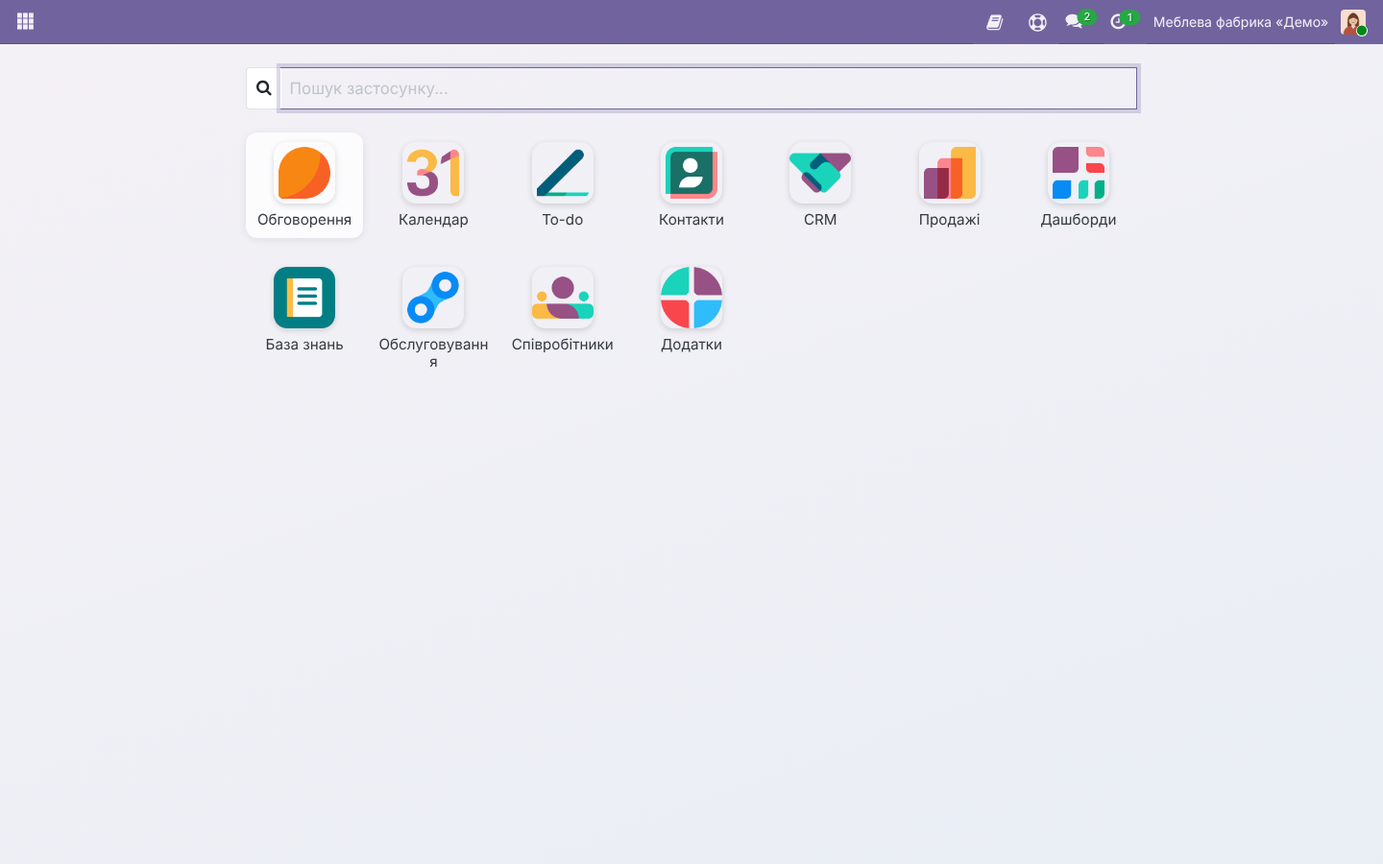
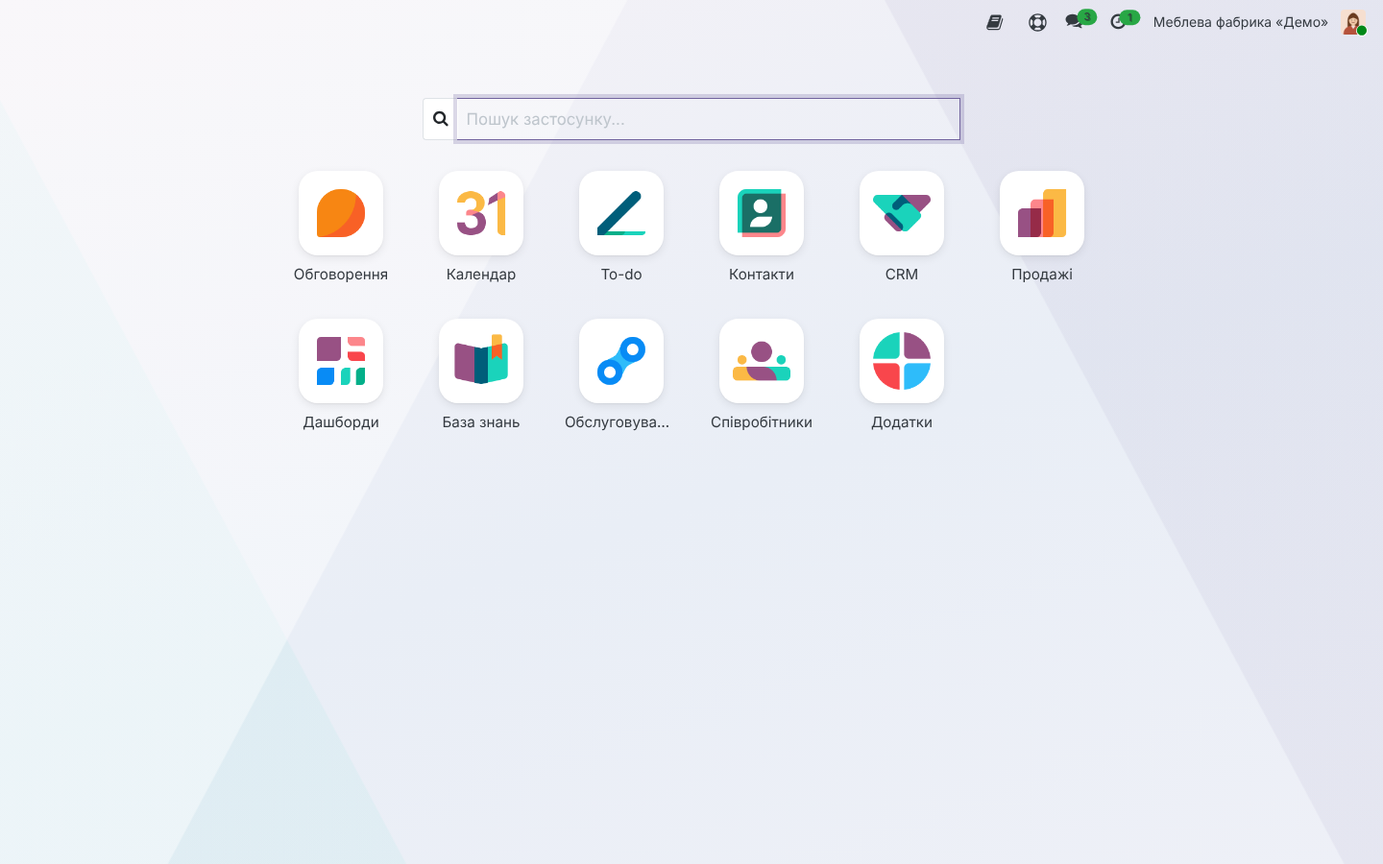
A-16b-3: перезнято кадри головного екрана (SC-01-1, SC-06-1) на стенді dd1c949, SHA в INDEX і SHOOT-LOG
Claude-Session: https://claude.ai/code/session_01L4X5dzMK8q8wsLqUxAXMtS

diff --git a/package/docs/user-guide/INDEX.md b/package/docs/user-guide/INDEX.md
@@ -1,10 +1,10 @@
 # Інструкції користувача: меблеве виробництво, пакет 0.4
-SHA стенда: 15dbd6f7504fe49f174af6874f6ed99865365ea8
+SHA стенда: dd1c9490f637c8c33fdbf983d22ab749d2763af9
 Джерело сценаріїв: package/SPEC.md
 Дозволені латинські назви: BAS, BAF, PIN, CAD, DXF, ToDo, QR, CUT, TDS, ПДВ, Odoo, Excel, CSV
-Дата зйомки: 2026-11-15 (A-16b-2: усі 69 кадрів перезнято на стенді A-15-full-2 `15dbd6f`, сервер з каталогом доставки `delivery-fix3`). Адреса стенда: локальний (`http://127.0.0.1:8079`, база `demo-mebli-pkg-a`, Odoo 19.0 CE, мова `uk_UA`, профіль B-демо). Засіб зйомки: Playwright, headless Chromium, 1440×900, часовий пояс `Europe/Kyiv`; журнал — `img/SHOOT-LOG.md`.
-Свіжість: SHA гейтів `package/CHECKS.md` = `ba0aff3` (A-14-6); `git diff --quiet ba0aff3..HEAD -- package/addons package/config package/master-data …` = 0 (код пакета = коду гейтів).
-Модулі на стенді (21 `td_*`, без `td_mebli_demo`): `td_home_menu` 19.0.1.0.0, `td_knowledge` 19.0.1.1.1, `td_mebli_attendance` 19.0.1.1.1, `td_mebli_bas` 19.0.1.1.3, `td_mebli_base` 19.0.1.1.3, `td_mebli_claim` 19.0.1.1.4, `td_mebli_cost` 19.0.1.1.2, `td_mebli_cutting` 19.0.1.1.3, `td_mebli_dashboard` 19.0.1.1.2, `td_mebli_install` 19.0.1.1.6, `td_mebli_knowledge` 19.0.1.1.1, `td_mebli_maint` 19.0.1.1.2, `td_mebli_measure` 19.0.1.1.3, `td_mebli_migration` 19.0.1.1.6, `td_mebli_mrp` 19.0.1.1.5, `td_mebli_notify` 19.0.1.1.3, `td_mebli_purchase` 19.0.1.1.3, `td_mebli_sale` 19.0.1.1.3, `td_mebli_shop` 19.0.1.1.3, `td_mebli_ua` 19.0.1.1.3, `td_support` 19.0.1.0.1. Не встановлено: мости EE (`td_mebli_shopfloor`, `_quality`, `_fsm`, `_planning`, `_helpdesk`, `_sign`) — EE не перевірено; `td_mebli_multico` — профіль VP-03 = `single`.
+Дата зйомки: 2026-11-16 (A-16b-3: перезнято кадри головного екрана `menedzher/SC-01-1.png`, `kerivnyk/SC-06-1.png` на стенді A-15-full-3 `dd1c949`, сервер з каталогом доставки `delivery-fix4`; решта 67 кадрів — A-16b-2 на стенді `15dbd6f`: diff коду `15dbd6f..dd1c949` змінює в інтерфейсі лише головний екран і іконки кореневих меню, яких на цих кадрах немає — навбар застосунків, форми й списки ті самі, AI-32). Адреса стенда: локальний (`http://127.0.0.1:8079`, база `demo-mebli-pkg-a`, Odoo 19.0 CE, мова `uk_UA`, профіль B-демо). Засіб зйомки: Playwright, headless Chromium, 1440×900, часовий пояс `Europe/Kyiv`; журнал — `img/SHOOT-LOG.md`.
+Свіжість: SHA гейтів `package/CHECKS.md` = `1778db7` (A-14-7); `git diff --quiet 1778db7..HEAD -- package/addons package/config package/master-data …` = 0 (код пакета = коду гейтів).
+Модулі на стенді (21 `td_*`, без `td_mebli_demo`): `td_home_menu` 19.0.1.0.1, `td_knowledge` 19.0.1.1.2, `td_mebli_attendance` 19.0.1.1.1, `td_mebli_bas` 19.0.1.1.3, `td_mebli_base` 19.0.1.1.3, `td_mebli_claim` 19.0.1.1.4, `td_mebli_cost` 19.0.1.1.2, `td_mebli_cutting` 19.0.1.1.3, `td_mebli_dashboard` 19.0.1.1.3, `td_mebli_install` 19.0.1.1.6, `td_mebli_knowledge` 19.0.1.1.1, `td_mebli_maint` 19.0.1.1.2, `td_mebli_measure` 19.0.1.1.4, `td_mebli_migration` 19.0.1.1.6, `td_mebli_mrp` 19.0.1.1.5, `td_mebli_notify` 19.0.1.1.4, `td_mebli_purchase` 19.0.1.1.3, `td_mebli_sale` 19.0.1.1.3, `td_mebli_shop` 19.0.1.1.3, `td_mebli_ua` 19.0.1.1.3, `td_support` 19.0.1.0.1. Не встановлено: мости EE (`td_mebli_shopfloor`, `_quality`, `_fsm`, `_planning`, `_helpdesk`, `_sign`) — EE не перевірено; `td_mebli_multico` — профіль VP-03 = `single`.
 
 ## Ролі
 | Роль | Посібник | Картка |
@@ -591,7 +591,7 @@ SHA стенда: 15dbd6f7504fe49f174af6874f6ed99865365ea8
 | Обмеження звернень (5 на годину, 5 вкладень, 10 МБ) | параметр спільного модуля `td_support.rate_limit_per_hour, max_attachments` | td_support | admin.md § Звернення в підтримку (td_support) | описано |
 | Значок «Підтримка ToDo» і кнопка «Надіслати в підтримку ToDo» на діалозі помилки | елемент навбару `td_support.Systray, ErrorDialog` | td_support | menedzher.md § Довідка й підтримка; admin.md § Звернення в підтримку (td_support) | описано |
 | Значок «Довідка» (статті до екрана) і кнопка «Додати статтю до цього екрана» (редактор) | елемент навбару `td_knowledge.Systray` | td_knowledge | admin.md § База знань (td_knowledge) | описано |
-| Головний екран застосунків (плитки, пошук, гаряча клавіша `h`) | клієнтська дія `td_home_menu (клієнтська дія)` | td_home_menu | menedzher.md § SC-01; kerivnyk.md § SC-06 | описано |
+| Головний екран застосунків (плитки на білих картках, пошук, гаряча клавіша `h`; навбар — лише значки праворуч; підпис в один рядок з «…») | клієнтська дія `td_home_menu (клієнтська дія)` | td_home_menu | menedzher.md § SC-01; kerivnyk.md § SC-06 | описано |
 | Правила доступу записів (2) | правила запису `ir.rule td_knowledge` | td_knowledge | admin.md § Користувачі й ролі | описано |
 | Правила доступу записів (3) | правила запису `ir.rule td_mebli_bas` | td_mebli_bas | admin.md § Користувачі й ролі | описано |
 | Правила доступу записів (4) | правила запису `ir.rule td_mebli_cutting` | td_mebli_cutting | admin.md § Користувачі й ролі | описано |

diff --git a/docs/industries/mebli/research/AI-DECISIONS.md b/docs/industries/mebli/research/AI-DECISIONS.md
@@ -68,3 +68,4 @@
 | AI-29 | Іконки застосунків `td_*` (td_knowledge, td_mebli_dashboard, td_mebli_measure) | Власні малюнки в стилі стандартних `icon.svg` Odoo 19: без фону-плашки, 3–5 пласких фігур, що перекриваються (колір перекриття — окремою фігурою), палітра #985184, #005E7A, #1AD3BB, #FBB945, #F86126, #FC868B; база знань — розгорнута книга із закладкою, дашборд керівника — три стовпчики, що заходять один на один, заміри — рулетка зі стрічкою; `icon.svg` 50×50 + `icon.png` 100×100 (як стандарт), `web_icon` = `<власний модуль>,static/description/icon.png`; «Заміри» більше не беруть іконку `crm` | лишити плашки; брати іконки стандартних застосунків | малюнок — рішення AI без дизайнера; на темній темі фігури без плашки читаються так само, як стандартні | знімки after-* (home-menu-review); тест `test_app_icons` | A-11 fix4 | ризик, вето власника |
 | AI-30 | Підписи плиток головного екрана рвались посеред слова («Обслуговуванн / я») | За рішенням власника (вигляд як у EE): підпис — один рядок `white-space: nowrap; overflow: hidden; text-overflow: ellipsis`, повна назва — у `title` плитки; на телефоні 390 px «Обслуговування» вміщається повністю; на десктопі (колонка ≈ 118 px при 6 колонках і ширших проміжках) 14+ літер — з «…» («Обслуговува…», «Виставлення …»), повна назва — у підказці; уточнено в A-15-full-3 за знімками after-* | перенос лише між словами + `hyphens: auto` і менший шрифт для довгих слів (перша редакція fix4, замінена рішенням власника) | довга назва видна повністю лише в підказці (`title`) і в пошуку | знімки after-*, тур `td_home_menu_tour`, T-14 (A-16-6) | A-11 fix4 | ризик, вето власника |
 | AI-31 | Головний екран CE «як Enterprise» без коду й ресурсів EE | Лише власні CSS/JS/XML `td_home_menu`: клас `body.td_home_menu_mode` на час екрана — навбар прозорий, меню застосунку, бренд і кнопка плиток сховані (CSS), systray лишається; фон — власний градієнт із діагональними площинами (CSS-градієнти, без файлів); білі плитки 88 px (телефон 76) з тінню; сітка 6/4/3 колонки (≥ 992 / ≥ 768 / менше); одна виділена плитка — `state.focused` з `mouseenter`/стрілок (без `:hover`), до наведення виділення немає; пошук — завжди вгорі (рішення власника; варіант «з'являється при наборі» скасовано) | копіювати стилі `web_enterprise` (ліцензія OEEL — заборонено) | інші модулі, що стилізують навбар, можуть перекрити CSS-змінні навбару в режимі головного екрана; на темній темі не перевірено | тур (HM-07…HM-11), знімки after-* 1440/390 | A-11 fix4 | ризик, вето власника |
+| AI-32 | A-16b-3: які кадри інструкцій перезнімати після A-11-fix4 | Лише кадри, де видно головний екран (`menedzher/SC-01-1.png`, `kerivnyk/SC-06-1.png`; grep посібників і перегляд кадрів «головний екран»/«плитки»; іконок кореневих меню на інших кадрах немає — навбар CE застосунку іконку не показує); у SHOOT-LOG новий SHA `dd1c949` — лише в цих 2 рядках, решта 67 — `15dbd6f` (A-16b-2) з поясненням у INDEX; INDEX «SHA стенда» = `dd1c949` | перезняти всі 69 кадрів | кадр, на якому випадково видно змінений елемент, лишиться старим (перевірено: зміни лише в режимі головного екрана) | UG-fresh (MANUAL), A-17 власник за інструкціями | A-16b-3 | ризик, вето власника |

diff --git a/tests/reports/A-16b-3.md b/tests/reports/A-16b-3.md
@@ -1,0 +1,31 @@
+# Звіт кроку A-16b (інструкції користувача), спроба 3 (refresh) — тестовий режим, замість message_post
+
+Наряд: `tests/naryad/A-16b-3.yaml`. Гілка `flow/A-16b-3-test` від `flow/A-16-6-test` @ `fcca4cc`. Стенд: `demo-mebli-pkg-a` A-15-full-3, SHA_STAND `dd1c949`, гейти A-14-7 `1778db7`; сервер — з каталогом доставки `delivery-fix4` (команда — `tests/reports/A-15-full-3.md`).
+
+```yaml
+run: {step: A-16b, scope: package/mebli, attempt: 3, started: 2026-11-16T00:30:00Z, finished: 2026-11-16T00:45:00Z}
+result: done
+pr: "не створювався (наказ сесії); гілка flow/A-16b-3-test запушена"
+skill_versions: {"flow-package-build:user-guide-builder": "0.4.0"}
+model: {primary: claude-opus-5-5, review: null}
+usage: {tokens_in: 30000, tokens_out: 5000, agent_hours: 0.25}   # оцінка
+cost_estimated: true
+review_rounds: 0
+git: {base: fcca4cc, branch: flow/A-16b-3-test}
+checks:
+  - {id: step0-fresh, status: PASS, msg: "git diff --quiet 1778db7..HEAD -- package/addons package/config package/master-data = 0; SHA_STAND dd1c949 (README)"}
+  - {id: reshoot, status: PASS, msg: "кадри з головним екраном (grep «головний екран»/«плитки» у посібниках + перегляд кадрів): menedzher/SC-01-1.png (salon), kerivnyk/SC-06-1.png (owner) — перезнято 1440×900, Playwright, Europe/Kyiv; інших кадрів з головним екраном чи іконками кореневих меню немає (AI-32)"}
+  - {id: UG-all, status: PASS, msg: "check_guides.py --stand-sha dd1c949…: PASS 11, FAIL 0, MANUAL 3 (UG-fresh, UG-ui, UG-pii — нижче)"}
+  - {id: UG-fresh, status: PASS, msg: "SHOOT-LOG: 2 перезняті кадри — dd1c949, 2026-11-16; решта 67 — 15dbd6f (A-16b-2), UI на них між 15dbd6f і dd1c949 не змінювався (AI-32); INDEX «SHA стенда» = dd1c949"}
+  - {id: messages, status: PASS, msg: "reference/check_messages.py: тексти 142, пропущених 0"}
+  - {id: texts, status: PASS, msg: "admin.md § Головний екран — новий вигляд (білі плитки, підпис з «…», навбар — лише значки праворуч, 6/4/3 колонки, власні іконки); INDEX — SHA, дата зйомки, версії модулів, рядок «Головний екран застосунків», свіжість 1778db7"}
+  - {id: where, status: PASS, msg: "package/docs/user-guide/** + AI-DECISIONS (AI-32) + наряд і звіт"}
+  - {id: reset, status: PASS, msg: "стенд скинуто зі знімка перед зйомкою; дані не змінювались"}
+data_sources: ["repo:package/@fcca4cc", "local:demo-mebli-pkg-a A-15-full-3 (dd1c949)", "local:Odoo 19.0 CE, Playwright Chromium 1440×900"]
+memo: |
+  Що змінилось: 2 кадри головного екрана (новий вигляд і іконки «Керівник», «База знань»), admin.md § Головний екран, INDEX (SHA, дата, версії).
+  Невпевнений: на кадрі 1440 підпис «Обслуговування» — «Обслуговува…» (рішення власника — ellipsis + підказка).
+  Де ризик: AI-32 (часткова перезйомка). Що перевірити (власник, A-17): вхід під будь-якою роллю — головний екран; наведення — одна плитка; підказка з повною назвою.
+  Недовірені дані: інструкцій не виявлено.
+observations: []
+```

diff --git a/package/docs/user-guide/admin.md b/package/docs/user-guide/admin.md
@@ -29,7 +29,7 @@
 5. Швидкодія на еталонному стенді (200 відкритих замовлень): ціна з розмірів і дошка — до 3 с, імпорт 300 деталей — до 30 с, етикетки — до 60 с (AC-N.02; вимірювання на стенді не проводилось — ризик, перевірити на пілоті).
 
 ## Головний екран (td_home_menu)
-Плитки кореневих меню з іконками, пошук застосунку за назвою (Enter — відкрити, Esc — очистити), стрілки клавіатури. Відкривається після входу (коли в адресі немає дії) і кнопкою з плитками в навбарі; гаряча клавіша — `h`. На телефоні — сітка в 3 колонки. Лише Community: якщо встановлено Enterprise (`web_enterprise`), модуль нічого не змінює. Налаштувань немає; знімок — menedzher.md крок 1.
+Плитки кореневих меню: іконка на білій заокругленій картці одного розміру, підпис в один рядок (довга назва — з «…», повністю — у підказці при наведенні); пошук застосунку за назвою (поле вгорі; Enter — відкрити, Esc — очистити), стрілки клавіатури; виділена одна плитка — під курсором або обрана стрілками. На головному екрані верхня смуга показує лише значки праворуч (повідомлення, активності, «Довідка», «Підтримка ToDo», користувач) — меню й назви застосунку немає. Відкривається після входу (коли в адресі немає дії) і кнопкою з плитками в навбарі застосунку; гаряча клавіша — `h`. Сітка: 6 колонок на комп'ютері, 4 на планшеті, 3 на телефоні. Іконки застосунків пакета («База знань», «Керівник», «Заміри») — власні, у стилі стандартних іконок Odoo 19. Лише Community: якщо встановлено Enterprise (`web_enterprise`), модуль нічого не змінює. Налаштувань немає; знімок — menedzher.md крок 1.
 
 ## Параметри
 Параметри клієнта задаються у файлі анкети `answers.yaml` (схема — `package/templates/answers.yaml`, приклад — `answers.example.yaml`), конфіг-пакет A-12 переносить їх у базу. Після установки більшість значень видно й можна змінити в «Налаштування» → «Меблі» (поле компанії `res.company.td_*`).

diff --git a/package/docs/user-guide/img/SHOOT-LOG.md b/package/docs/user-guide/img/SHOOT-LOG.md
@@ -2,7 +2,7 @@
 
 | Файл | SHA | Дата | Демо-роль | Стенд |
 |---|---|---|---|---|
-| package/docs/user-guide/img/menedzher/SC-01-1.png | 15dbd6f7504fe49f174af6874f6ed99865365ea8 | 2026-11-15 | salon@demo-fabryka.example | http://127.0.0.1:8079 |
+| package/docs/user-guide/img/menedzher/SC-01-1.png | dd1c9490f637c8c33fdbf983d22ab749d2763af9 | 2026-11-16 | salon@demo-fabryka.example | http://127.0.0.1:8079 |
 | package/docs/user-guide/img/menedzher/SC-01-2.png | 15dbd6f7504fe49f174af6874f6ed99865365ea8 | 2026-11-15 | salon@demo-fabryka.example | http://127.0.0.1:8079 |
 | package/docs/user-guide/img/menedzher/SC-01-3.png | 15dbd6f7504fe49f174af6874f6ed99865365ea8 | 2026-11-15 | salon@demo-fabryka.example | http://127.0.0.1:8079 |
 | package/docs/user-guide/img/menedzher/SC-01-4.png | 15dbd6f7504fe49f174af6874f6ed99865365ea8 | 2026-11-15 | salon@demo-fabryka.example | http://127.0.0.1:8079 |
@@ -44,7 +44,7 @@
 | package/docs/user-guide/img/finansyst/SC-05-6.png | 15dbd6f7504fe49f174af6874f6ed99865365ea8 | 2026-11-15 | fin@demo-fabryka.example | http://127.0.0.1:8079 |
 | package/docs/user-guide/img/finansyst/SC-05-7.png | 15dbd6f7504fe49f174af6874f6ed99865365ea8 | 2026-11-15 | fin@demo-fabryka.example | http://127.0.0.1:8079 |
 | package/docs/user-guide/img/finansyst/SC-05-8.png | 15dbd6f7504fe49f174af6874f6ed99865365ea8 | 2026-11-15 | fin@demo-fabryka.example | http://127.0.0.1:8079 |
-| package/docs/user-guide/img/kerivnyk/SC-06-1.png | 15dbd6f7504fe49f174af6874f6ed99865365ea8 | 2026-11-15 | owner@demo-fabryka.example | http://127.0.0.1:8079 |
+| package/docs/user-guide/img/kerivnyk/SC-06-1.png | dd1c9490f637c8c33fdbf983d22ab749d2763af9 | 2026-11-16 | owner@demo-fabryka.example | http://127.0.0.1:8079 |
 | package/docs/user-guide/img/kerivnyk/SC-06-2.png | 15dbd6f7504fe49f174af6874f6ed99865365ea8 | 2026-11-15 | owner@demo-fabryka.example | http://127.0.0.1:8079 |
 | package/docs/user-guide/img/kerivnyk/SC-06-3.png | 15dbd6f7504fe49f174af6874f6ed99865365ea8 | 2026-11-15 | owner@demo-fabryka.example | http://127.0.0.1:8079 |
 | package/docs/user-guide/img/kerivnyk/SC-06-4.png | 15dbd6f7504fe49f174af6874f6ed99865365ea8 | 2026-11-15 | owner@demo-fabryka.example | http://127.0.0.1:8079 |
